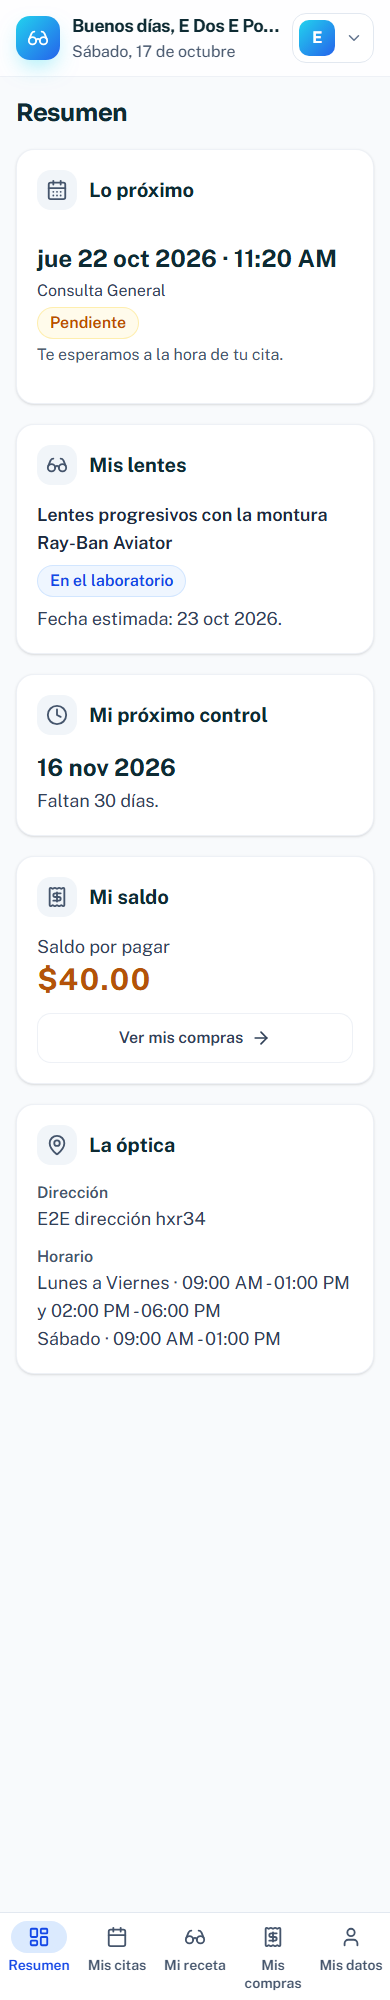
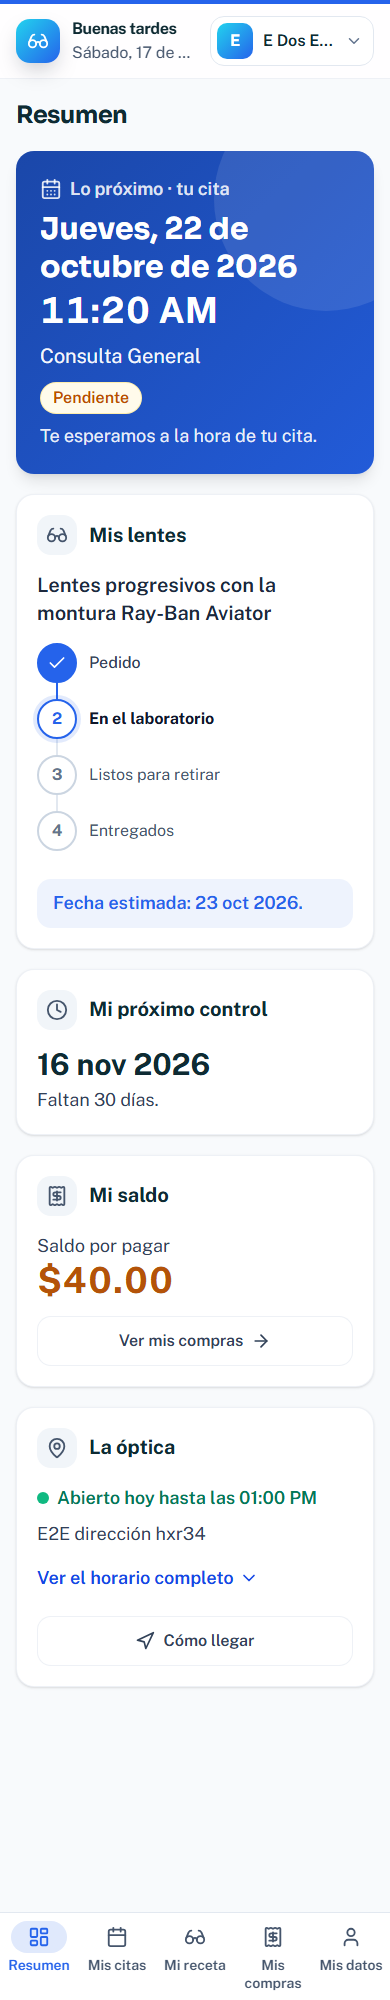
feat(portal): cabecera ajustada en celular, calendario y ventanas con toques de 44 px, medidas en las capturas, capturas y registro de la ronda 2

diff --git a/src/paginas/PortalPaciente.jsx b/src/paginas/PortalPaciente.jsx
@@ -331,14 +331,14 @@ export default function PortalPaciente({ usuario, citas = [], setCitas, consulta
           <div className="flex min-w-0 items-center gap-3">
             <div className="lg:hidden">{marca()}</div>
             <div className="min-w-0">
-              <p className="truncate text-lg font-bold tracking-tight" style={{ color: INK }}>{saludo}, {usuario?.nombre || primerNombre}</p>
+              <p className="truncate text-base font-bold tracking-tight sm:text-lg" style={{ color: INK }}>{saludo}<span className="hidden sm:inline">, {usuario?.nombre || primerNombre}</span></p>
               <p className="truncate text-base text-slate-600">{hoyFecha}</p>
             </div>
           </div>
           <div className="relative shrink-0" ref={userRef}>
             <button type="button" onClick={() => setUserMenu((v) => !v)} aria-haspopup="menu" aria-expanded={userMenu} aria-label="Mi cuenta" className="flex min-h-12 items-center gap-2.5 rounded-xl border border-slate-200 bg-white py-1.5 pl-1.5 pr-2.5 transition-colors hover:bg-slate-50 cursor-pointer">
               <span className="grid h-9 w-9 shrink-0 place-items-center rounded-lg text-base font-bold" style={{ background: "var(--portal-grad)", color: identidad.textoBoton }}>{primerNombre[0]?.toUpperCase()}</span>
-              <span className="max-w-[7.5rem] truncate text-left text-base font-semibold sm:max-w-[16rem]" style={{ color: INK }}>{usuario?.nombre || primerNombre}</span>
+              <span className="max-w-[4.5rem] truncate text-left text-base font-semibold sm:max-w-[16rem]" style={{ color: INK }}>{usuario?.nombre || primerNombre}</span>
               <ChevronDown size={18} aria-hidden="true" className={"text-slate-500 transition-transform " + (userMenu ? "rotate-180" : "")} />
             </button>
             {userMenu && (
@@ -411,7 +411,7 @@ export default function PortalPaciente({ usuario, citas = [], setCitas, consulta
             </div>
           </>}
         >
-          <div className="space-y-5 p-5">
+          <div className="space-y-5 p-3 sm:p-5">
             {error && <div role="alert" className="flex items-center gap-2 rounded-xl border border-red-200 bg-red-50 p-3 text-base font-medium text-red-700"><AlertCircle size={20} aria-hidden="true" /> {error}</div>}
             <div>
               <label htmlFor="portal-motivo" className="mb-1.5 block text-base font-semibold text-slate-700">Motivo de la cita</label>
@@ -433,7 +433,7 @@ export default function PortalPaciente({ usuario, citas = [], setCitas, consulta
             </div>
           </>}
         >
-          <div className="space-y-4 p-5">
+          <div className="space-y-4 p-3 sm:p-5">
             {errorReagenda && <div role="alert" className="flex items-center gap-2 rounded-xl border border-red-200 bg-red-50 p-3 text-base font-medium text-red-700"><AlertCircle size={20} aria-hidden="true" /> {errorReagenda}</div>}
             <SelectorFechaHora grande disponibilidad={disponibilidad} citas={horasOcupadas.filter((c) => !(c.fecha === reagendando.fecha && c.hora === reagendando.hora))} fecha={fechaReagenda} hora={horaReagenda} onCambiarFecha={setFechaReagenda} onCambiarHora={setHoraReagenda} />
           </div>

diff --git a/src/componentes/SelectorFechaHora.jsx b/src/componentes/SelectorFechaHora.jsx
@@ -55,9 +55,9 @@ export default function SelectorFechaHora({ disponibilidad, citas = [], fecha, h
   }
 
   return (
-    <div className="grid grid-cols-1 items-start gap-4 md:grid-cols-2">
+    <div className={"grid grid-cols-1 items-start gap-4 " + (grande ? "md:grid-cols-[26rem_1fr]" : "md:grid-cols-2")}>
       {/* Calendario */}
-      <div className={"rounded-xl border border-slate-200/60 bg-slate-50/40 " + (grande ? "p-3 sm:p-4" : "p-3")}>
+      <div className={"rounded-xl border border-slate-200/60 bg-slate-50/40 " + (grande ? "p-2.5 sm:p-4" : "p-3")}>
         <div className="mb-2.5 flex items-center justify-between px-0.5">
           <span className={(grande ? "text-xl" : "text-xs") + " font-bold capitalize"} style={{ color: INK }}>
             {formatoFecha(mesVista, "mesAnio")}
@@ -88,7 +88,7 @@ export default function SelectorFechaHora({ disponibilidad, citas = [], fecha, h
           {DIAS_CORTOS.map((d, i) => (<span key={i}>{d}</span>))}
         </div>
 
-        <div className={"grid grid-cols-7 " + (grande ? "gap-1.5" : "gap-1")}>
+        <div className={"grid grid-cols-7 " + (grande ? "gap-1 sm:gap-1.5" : "gap-1")}>
           {dias.map((dia, i) => {
             if (!dia) return <span key={`e${i}`} />
             const sel = fecha === dia.iso
@@ -100,7 +100,7 @@ export default function SelectorFechaHora({ disponibilidad, citas = [], fecha, h
                 onClick={() => seleccionarDia(dia)}
                 title={dia.disponible ? "Disponible" : "Sin cupos"}
                 className={
-                  "grid w-full place-items-center rounded-lg border font-bold transition-colors " + (grande ? "h-12 text-xl " : "h-7 text-xs ") +  +
+                  "grid w-full place-items-center rounded-lg border font-bold transition-colors " + (grande ? "h-12 text-xl " : "h-7 text-xs ") +
                   (!dia.disponible
                     ? "cursor-not-allowed border-slate-100 bg-slate-50/60 text-slate-300"
                     : sel

diff --git a/src/componentes/portal/MiRecetaPortal.jsx b/src/componentes/portal/MiRecetaPortal.jsx
@@ -17,7 +17,7 @@ function Dato({ etiqueta, valor, ayuda, abierto, alAlternar }) {
       <div className="flex items-center justify-between gap-3">
         <dt className="flex items-center gap-1 text-lg text-slate-600">
           {etiqueta}
-          <button type="button" onClick={alAlternar} aria-expanded={abierto} aria-label={`¿Qué es ${etiqueta.toLowerCase()}?`} title={ayuda} className="grid h-11 w-11 place-items-center rounded-full text-slate-500 transition-colors hover:bg-slate-100 cursor-pointer"><Info size={20} aria-hidden="true" /></button>
+          <button type="button" onClick={alAlternar} aria-expanded={abierto} aria-label={`¿Qué es ${etiqueta.toLowerCase()}?`} title={ayuda} className="grid h-11 w-11 shrink-0 place-items-center rounded-full text-slate-500 transition-colors hover:bg-slate-100 cursor-pointer"><Info size={20} aria-hidden="true" /></button>
         </dt>
         <dd className="text-3xl font-bold tabular-nums" style={{ color: INK }}>{valor || "—"}</dd>
       </div>
@@ -87,7 +87,7 @@ export default function MiRecetaPortal({ cargando, ultimaReceta, recetasAnterior
                 </dl>
               )
             ) : (
-              <div className="flex flex-col gap-3 rounded-2xl border border-dashed border-slate-300 bg-slate-50/60 p-4 sm:flex-row sm:items-center sm:p-5">
+              <div className="flex flex-col gap-3 rounded-2xl border border-dashed border-slate-300 bg-slate-50/60 p-4 sm:p-5">
                 <div className="flex-1">
                   <p className="text-lg text-slate-700">La distancia pupilar y las medidas de montaje las toma la óptica al armar tus lentes. Puedes solicitarlas aquí.</p>
                   {errorMedidas && <p role="alert" className="mt-2 text-lg font-semibold text-red-600">{errorMedidas}</p>}

diff --git a/src/componentes/AtencionPaciente.jsx b/src/componentes/AtencionPaciente.jsx
@@ -44,12 +44,12 @@ export function Cascaron({ titulo, subtitulo, derecha, onCerrar, ancho = "max-w-
             {marca || <div className="grid h-11 w-11 shrink-0 place-items-center rounded-xl text-white" style={{ background: GRAD }}><Icono size={21} aria-hidden="true" /></div>}
             <div className="min-w-0">
               <h2 className="text-lg font-bold leading-tight" style={{ color: INK }}>{titulo}</h2>
-              <p className="text-xs text-slate-500">{subtitulo}</p>
+              <p className={pantallaCompletaEnCelular ? "text-base text-slate-600" : "text-xs text-slate-500"}>{subtitulo}</p>
             </div>
           </div>
           <div className="flex shrink-0 items-center gap-2">
             {derecha}
-            <button type="button" onClick={onCerrar} aria-label="Cerrar" className="rounded-lg p-1.5 text-slate-500 transition-colors hover:bg-slate-100 cursor-pointer"><X size={20} /></button>
+            <button type="button" onClick={onCerrar} aria-label="Cerrar" className={(pantallaCompletaEnCelular ? "grid h-12 w-12 place-items-center rounded-lg " : "rounded-lg p-1.5 ") + "text-slate-500 transition-colors hover:bg-slate-100 cursor-pointer"}><X size={pantallaCompletaEnCelular ? 24 : 20} /></button>
           </div>
         </div>
         <div className="min-h-0 flex-1 overflow-y-auto">{children}</div>

diff --git a/src/componentes/portal/HeroCita.jsx b/src/componentes/portal/HeroCita.jsx
@@ -43,7 +43,7 @@ export default function HeroCita({ cita, nuevo = false, nombreOptica, citaProps 
     <section aria-label="Lo próximo" className={base} style={fondo}>
       {adorno}
       <p className="flex items-center gap-2 text-lg font-semibold text-white/85"><CalendarDays size={22} aria-hidden="true" /> Lo próximo · tu cita</p>
-      <h2 id="hero" className="mt-2 font-heading text-3xl font-bold capitalize leading-tight sm:text-4xl">{formatoFecha(cita.fecha, "largo")}</h2>
+      <h2 id="hero" className="mt-2 font-heading text-3xl font-bold leading-tight sm:text-4xl">{formatoFecha(cita.fecha, "largo")}</h2>
       <p className="mt-1 text-4xl font-bold tabular-nums sm:text-5xl">{cita.hora}</p>
       <p className="mt-3 text-xl text-white/95">{cita.motivo || "Consulta"}</p>
       <div className="mt-3 flex flex-wrap items-center gap-x-3 gap-y-2">

diff --git a/e2e/portal-recorrido.spec.js b/e2e/portal-recorrido.spec.js
@@ -64,7 +64,7 @@ for (const [nombre, ancho, alto] of TAMANOS) {
         await ventana.getByRole('button', { name: 'Continuar' }).click()
         await page.getByRole('dialog').last().getByRole('button', { name: /Confirmar/ }).click()
         await expect(page.getByRole('status').filter({ hasText: 'quedó agendada' })).toBeVisible({ timeout: 20_000 })
-        const proximas = page.getByRole('region', { name: 'Próximas' })
+        const proximas = page.getByRole('region', { name: 'Lo próximo' })
         await expect(proximas.getByRole('button', { name: 'Reagendar' })).toBeVisible()
         const cita = (await q("select id, codigo, fecha::text, hora, origen from citas where paciente_id = $1 and created_at >= $2 order by created_at desc limit 1", [paciente.id, inicio]))[0]
         expect(cita, 'la cita quedó guardada').toBeTruthy()

diff --git a/src/paginas/PortalPaciente.test.jsx b/src/paginas/PortalPaciente.test.jsx
@@ -39,7 +39,7 @@ describe("Portal del paciente — Resumen", () => {
     await resumen()
     expect(screen.getAllByText(/Rosa/).length).toBeGreaterThan(0)
     expect(document.body.textContent).not.toMatch(/¡Hola, Rosa!/)
-    expect(screen.getAllByText(/(Buenos días|Buenas tardes|Buenas noches), Rosa/)).toHaveLength(1)
+    expect(screen.getAllByText(/(Buenos días|Buenas tardes|Buenas noches)/)).toHaveLength(1)
   })
 
   it("con una próxima cita muestra fecha, hora, motivo y estado, y no vuelve a decir «Próxima cita» ni «Total de citas»", async () => {

diff --git a/e2e/portal-adaptable.spec.js b/e2e/portal-adaptable.spec.js
@@ -63,6 +63,7 @@ for (const [nombre, ancho, alto] of TAMANOS) {
     await page.getByRole('button', { name: 'Agendar cita' }).click()
     const ventana = page.getByRole('dialog', { name: 'Agendar cita' })
     await expect(ventana).toBeVisible()
+    await page.waitForTimeout(500) // termina la animación de entrada de la ventana
     const caja = await ventana.boundingBox()
     expect(caja.x).toBeGreaterThanOrEqual(0)
     expect(caja.x + caja.width).toBeLessThanOrEqual(ancho)
